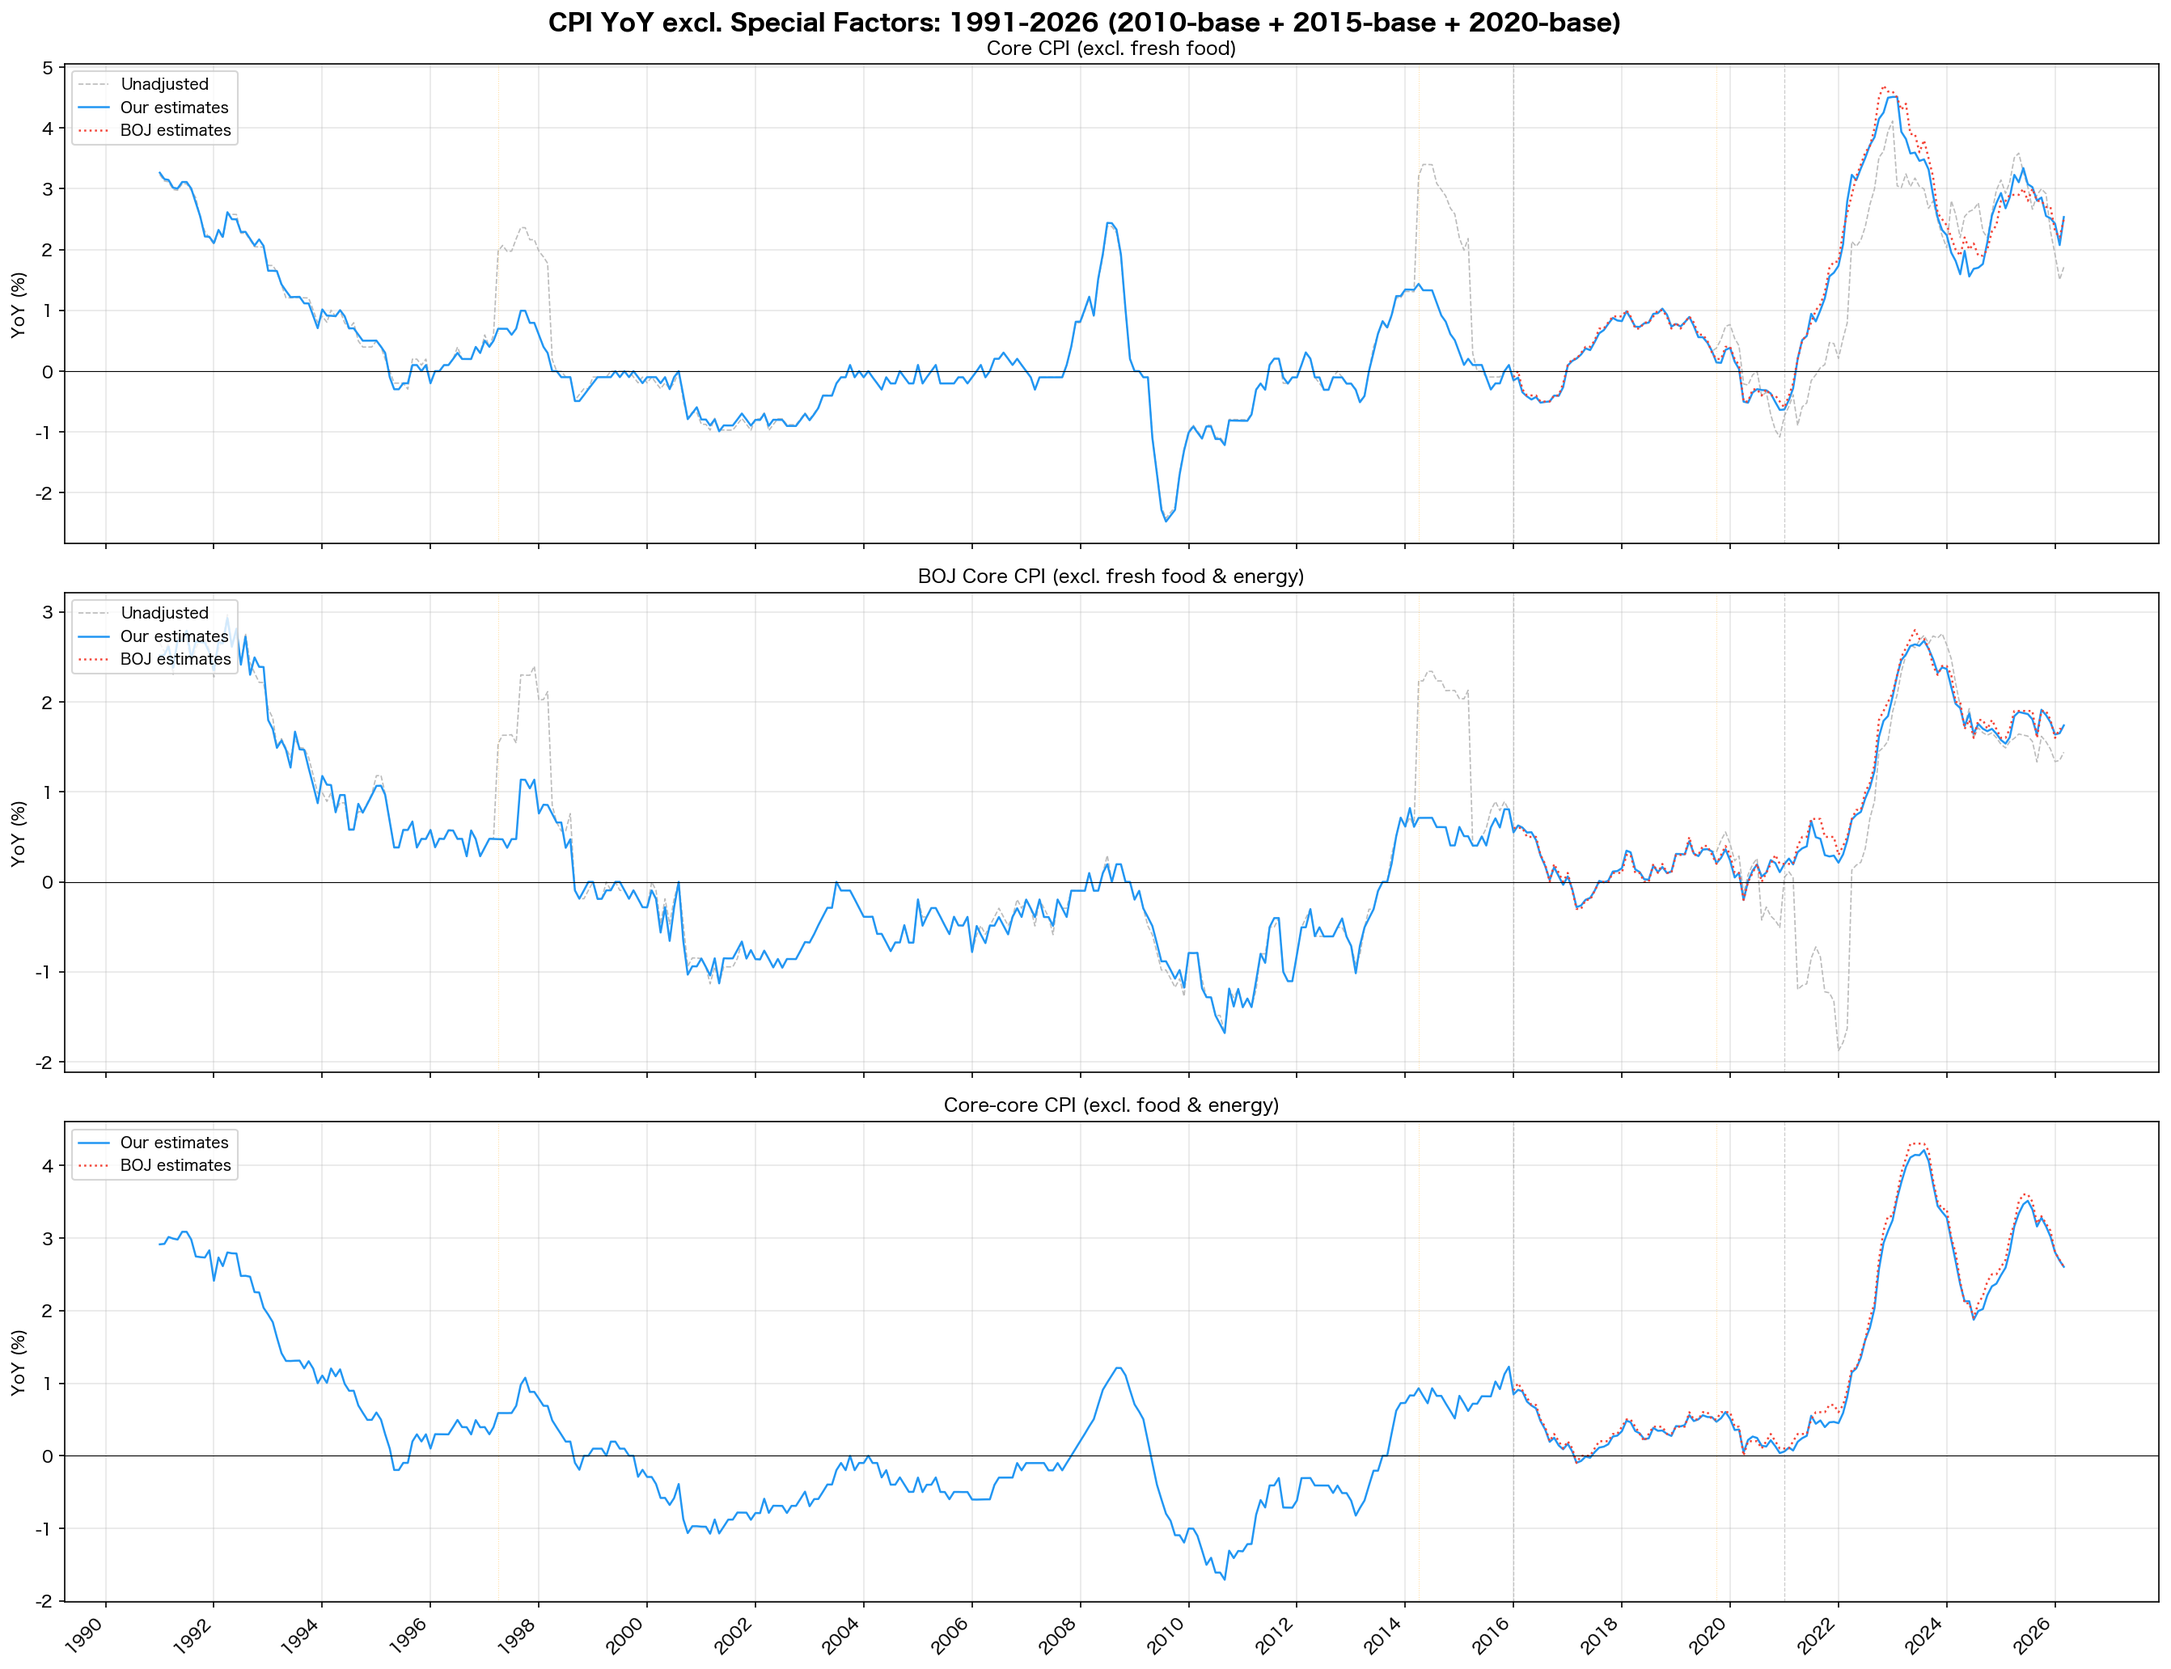
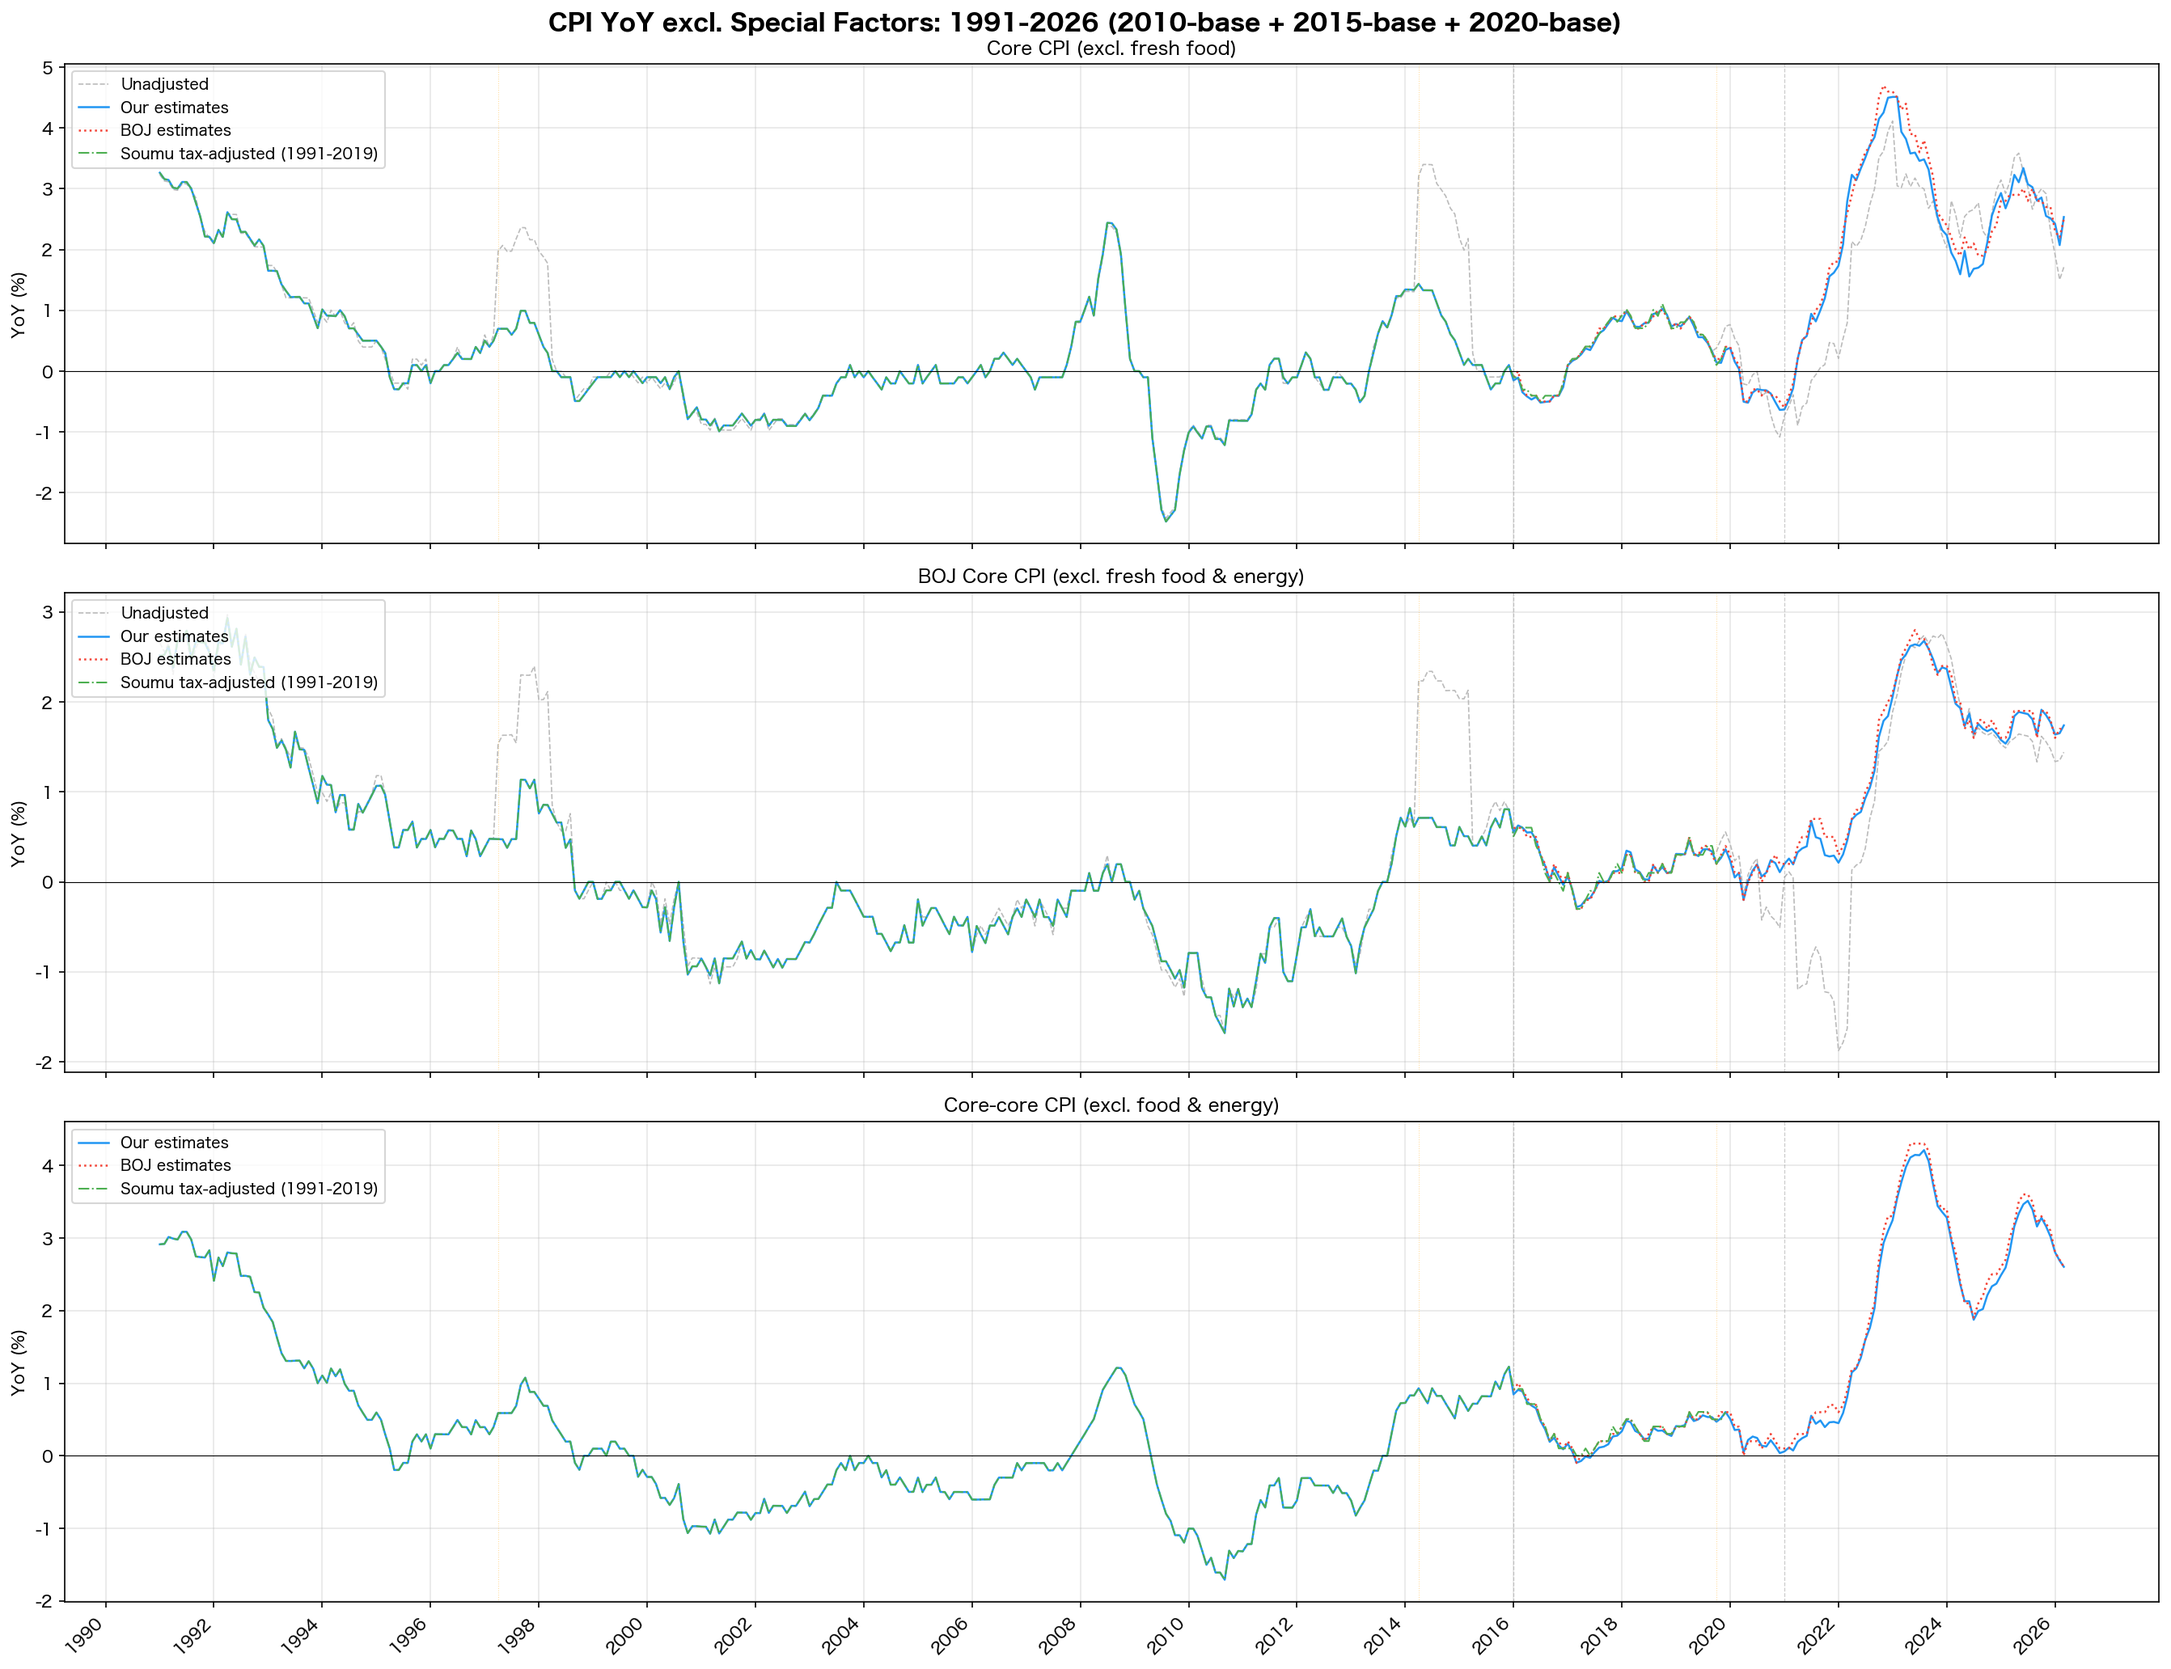
Overlay Soumu official tax-adjusted line on Fig 5
総務省公表の消費税調整済指数 (1991-2019) を緑のdash-dot線として追加。
2016-2019の重複期間で2015基準パイプラインの our-estimates との差異を
可視化できる。1991-2015は our-estimates と完全一致 (同一データソース)。

Changed region(s): [[0.0309, 0.3721, 0.1546, 0.4341]]

diff --git a/scripts/plot_results.py b/scripts/plot_results.py
@@ -246,6 +246,9 @@ def main():
         part_20 = yoy_20[yoy_20.index >= "2021-01"]
         yoy_adj_full = pd.concat([part_pre, part_15, part_20])
 
+        # 総務省公表 tax-adjusted (1991-2019, 全期間で表示)
+        yoy_soumu = yoy_taxadj[(yoy_taxadj.index >= "1991-01") & (yoy_taxadj.index <= "2019-12")]
+
         # Unadjusted: 2010-base (1991-2015) + 2015-base + 2020-base
         orig_15 = compute_weighted_index(indices_15, weights_15, series_name, master_15)
         yoy_orig_15 = compute_yoy(orig_15)
@@ -268,6 +271,7 @@ def main():
 
         ax.plot(ym_to_date(yoy_adj_full.index), yoy_adj_full.values, color="#2196F3", linewidth=1.2, label="Our estimates")
         ax.plot(ym_to_date(boj_c.index), boj_c.values, color="#F44336", linewidth=1.2, label="BOJ estimates", linestyle=":")
+        ax.plot(ym_to_date(yoy_soumu.index), yoy_soumu.values, color="#4CAF50", linewidth=1.0, label="Soumu tax-adjusted (1991-2019)", linestyle="-.")
 
         # Splice boundaries
         for boundary in ["2016-01", "2021-01"]:
